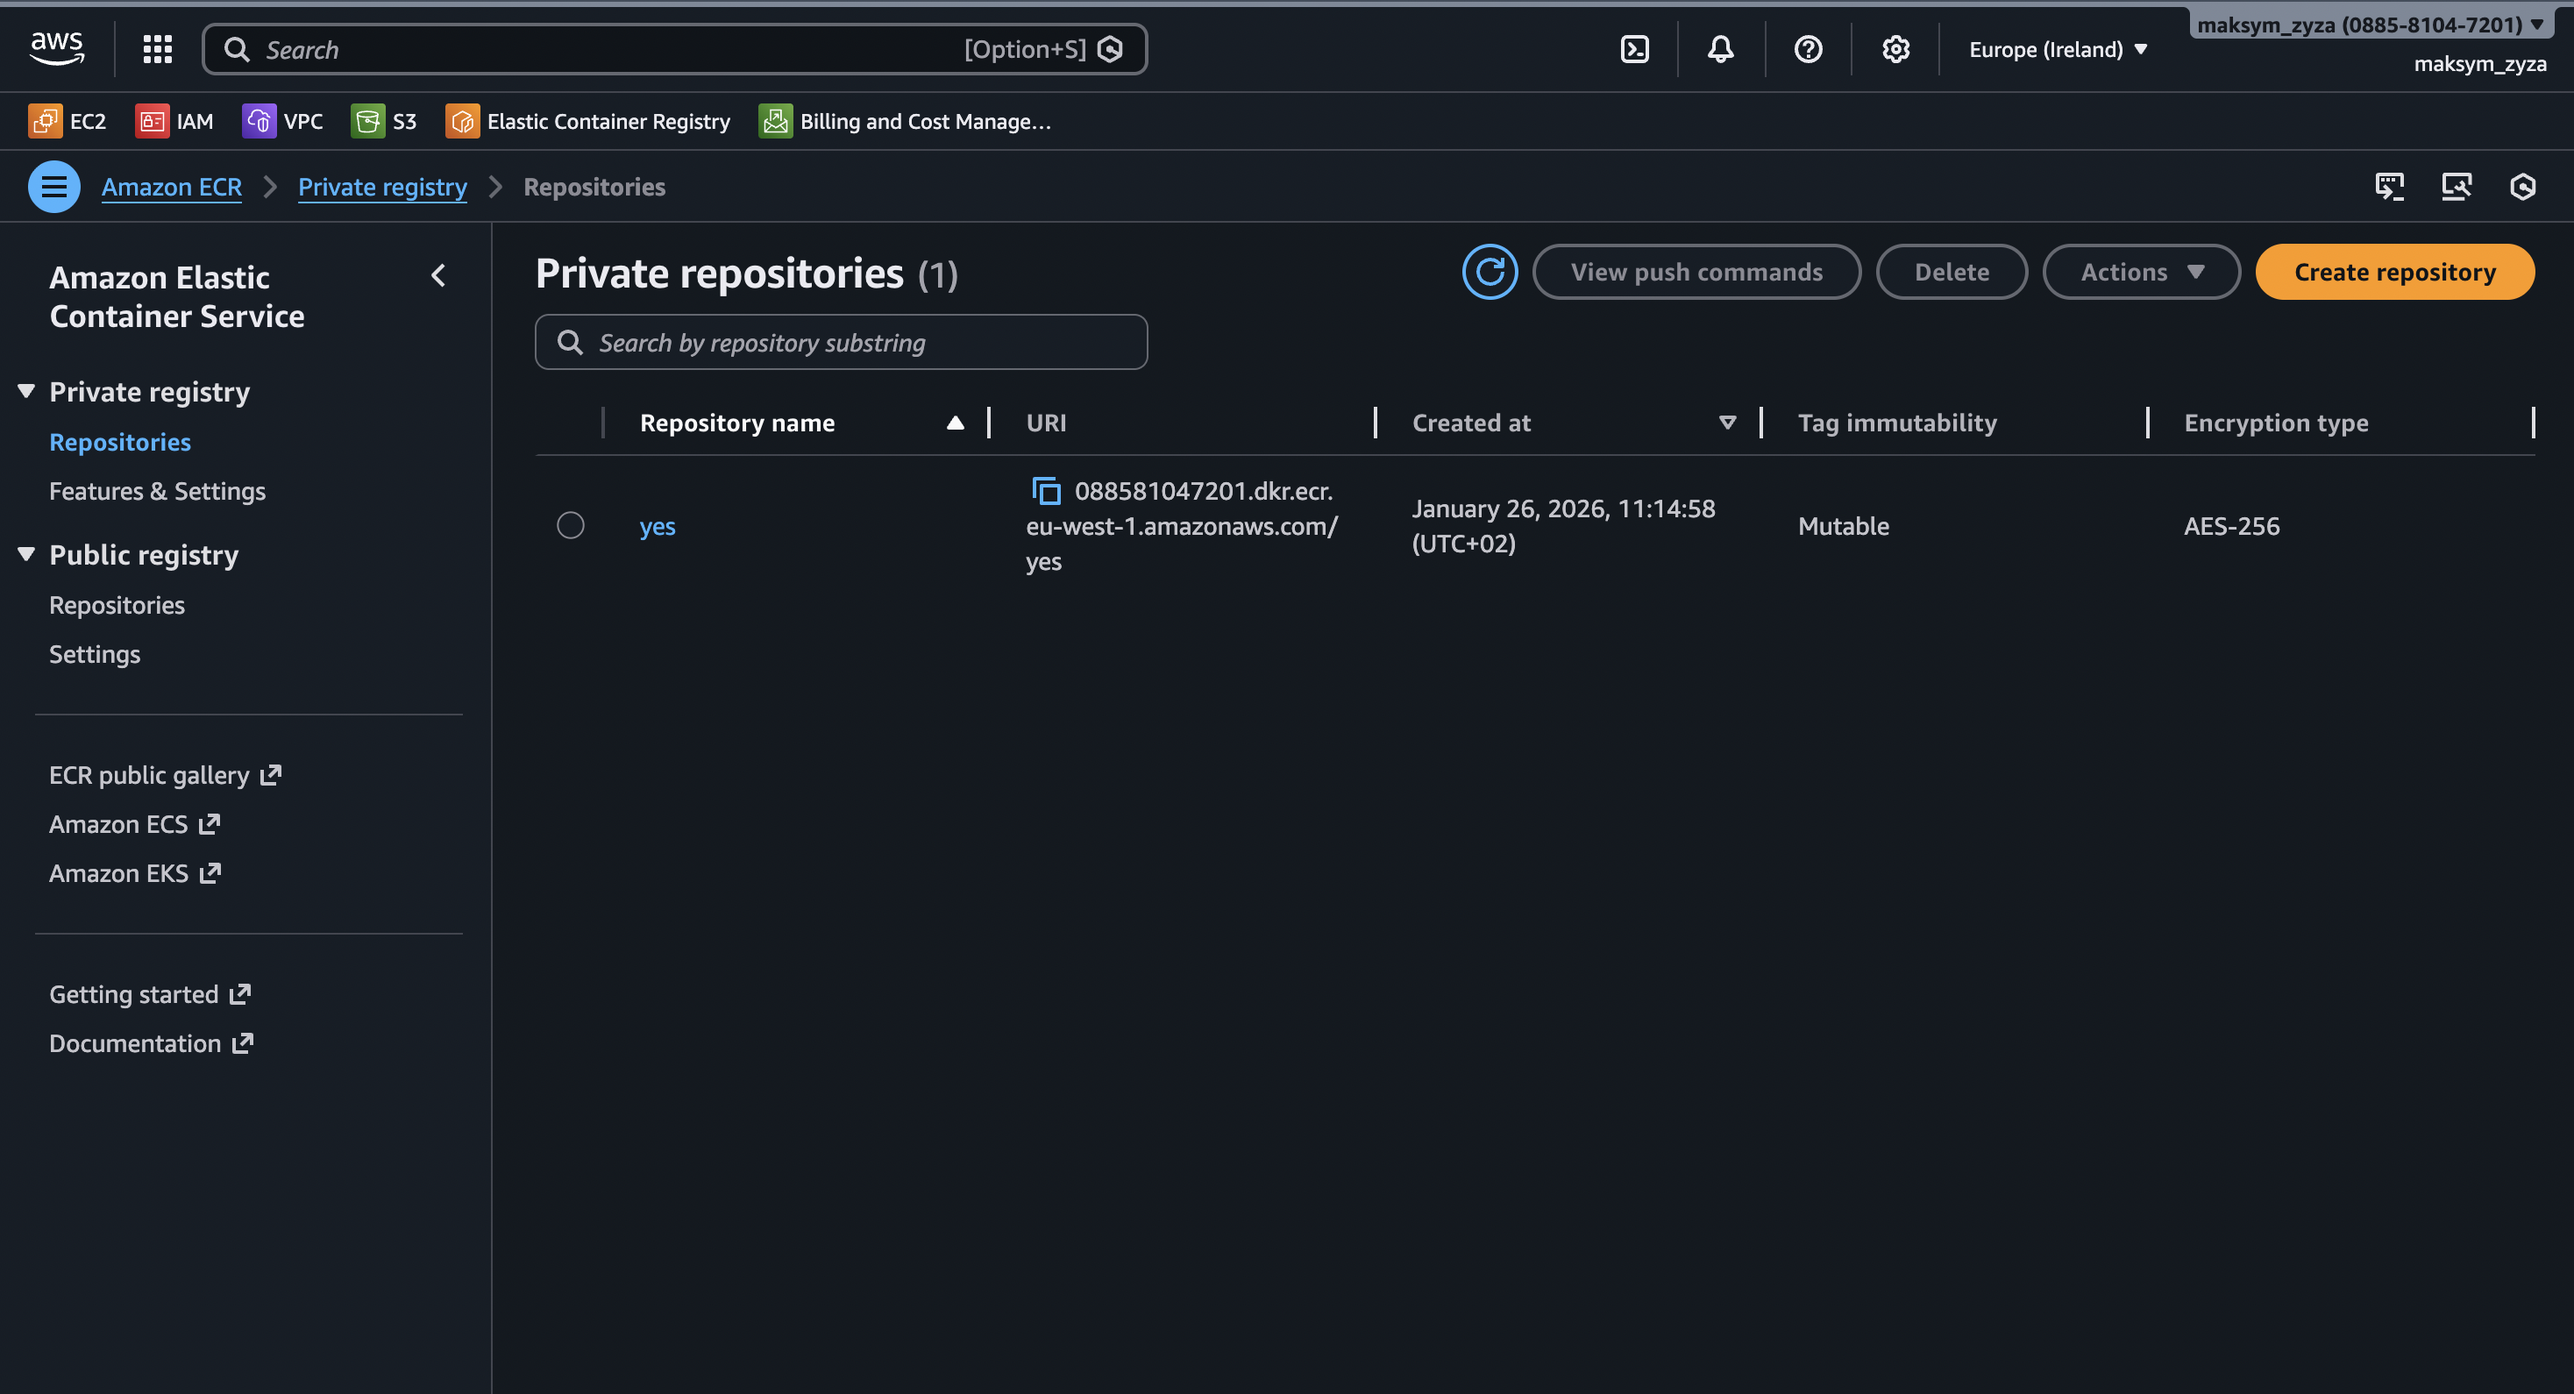
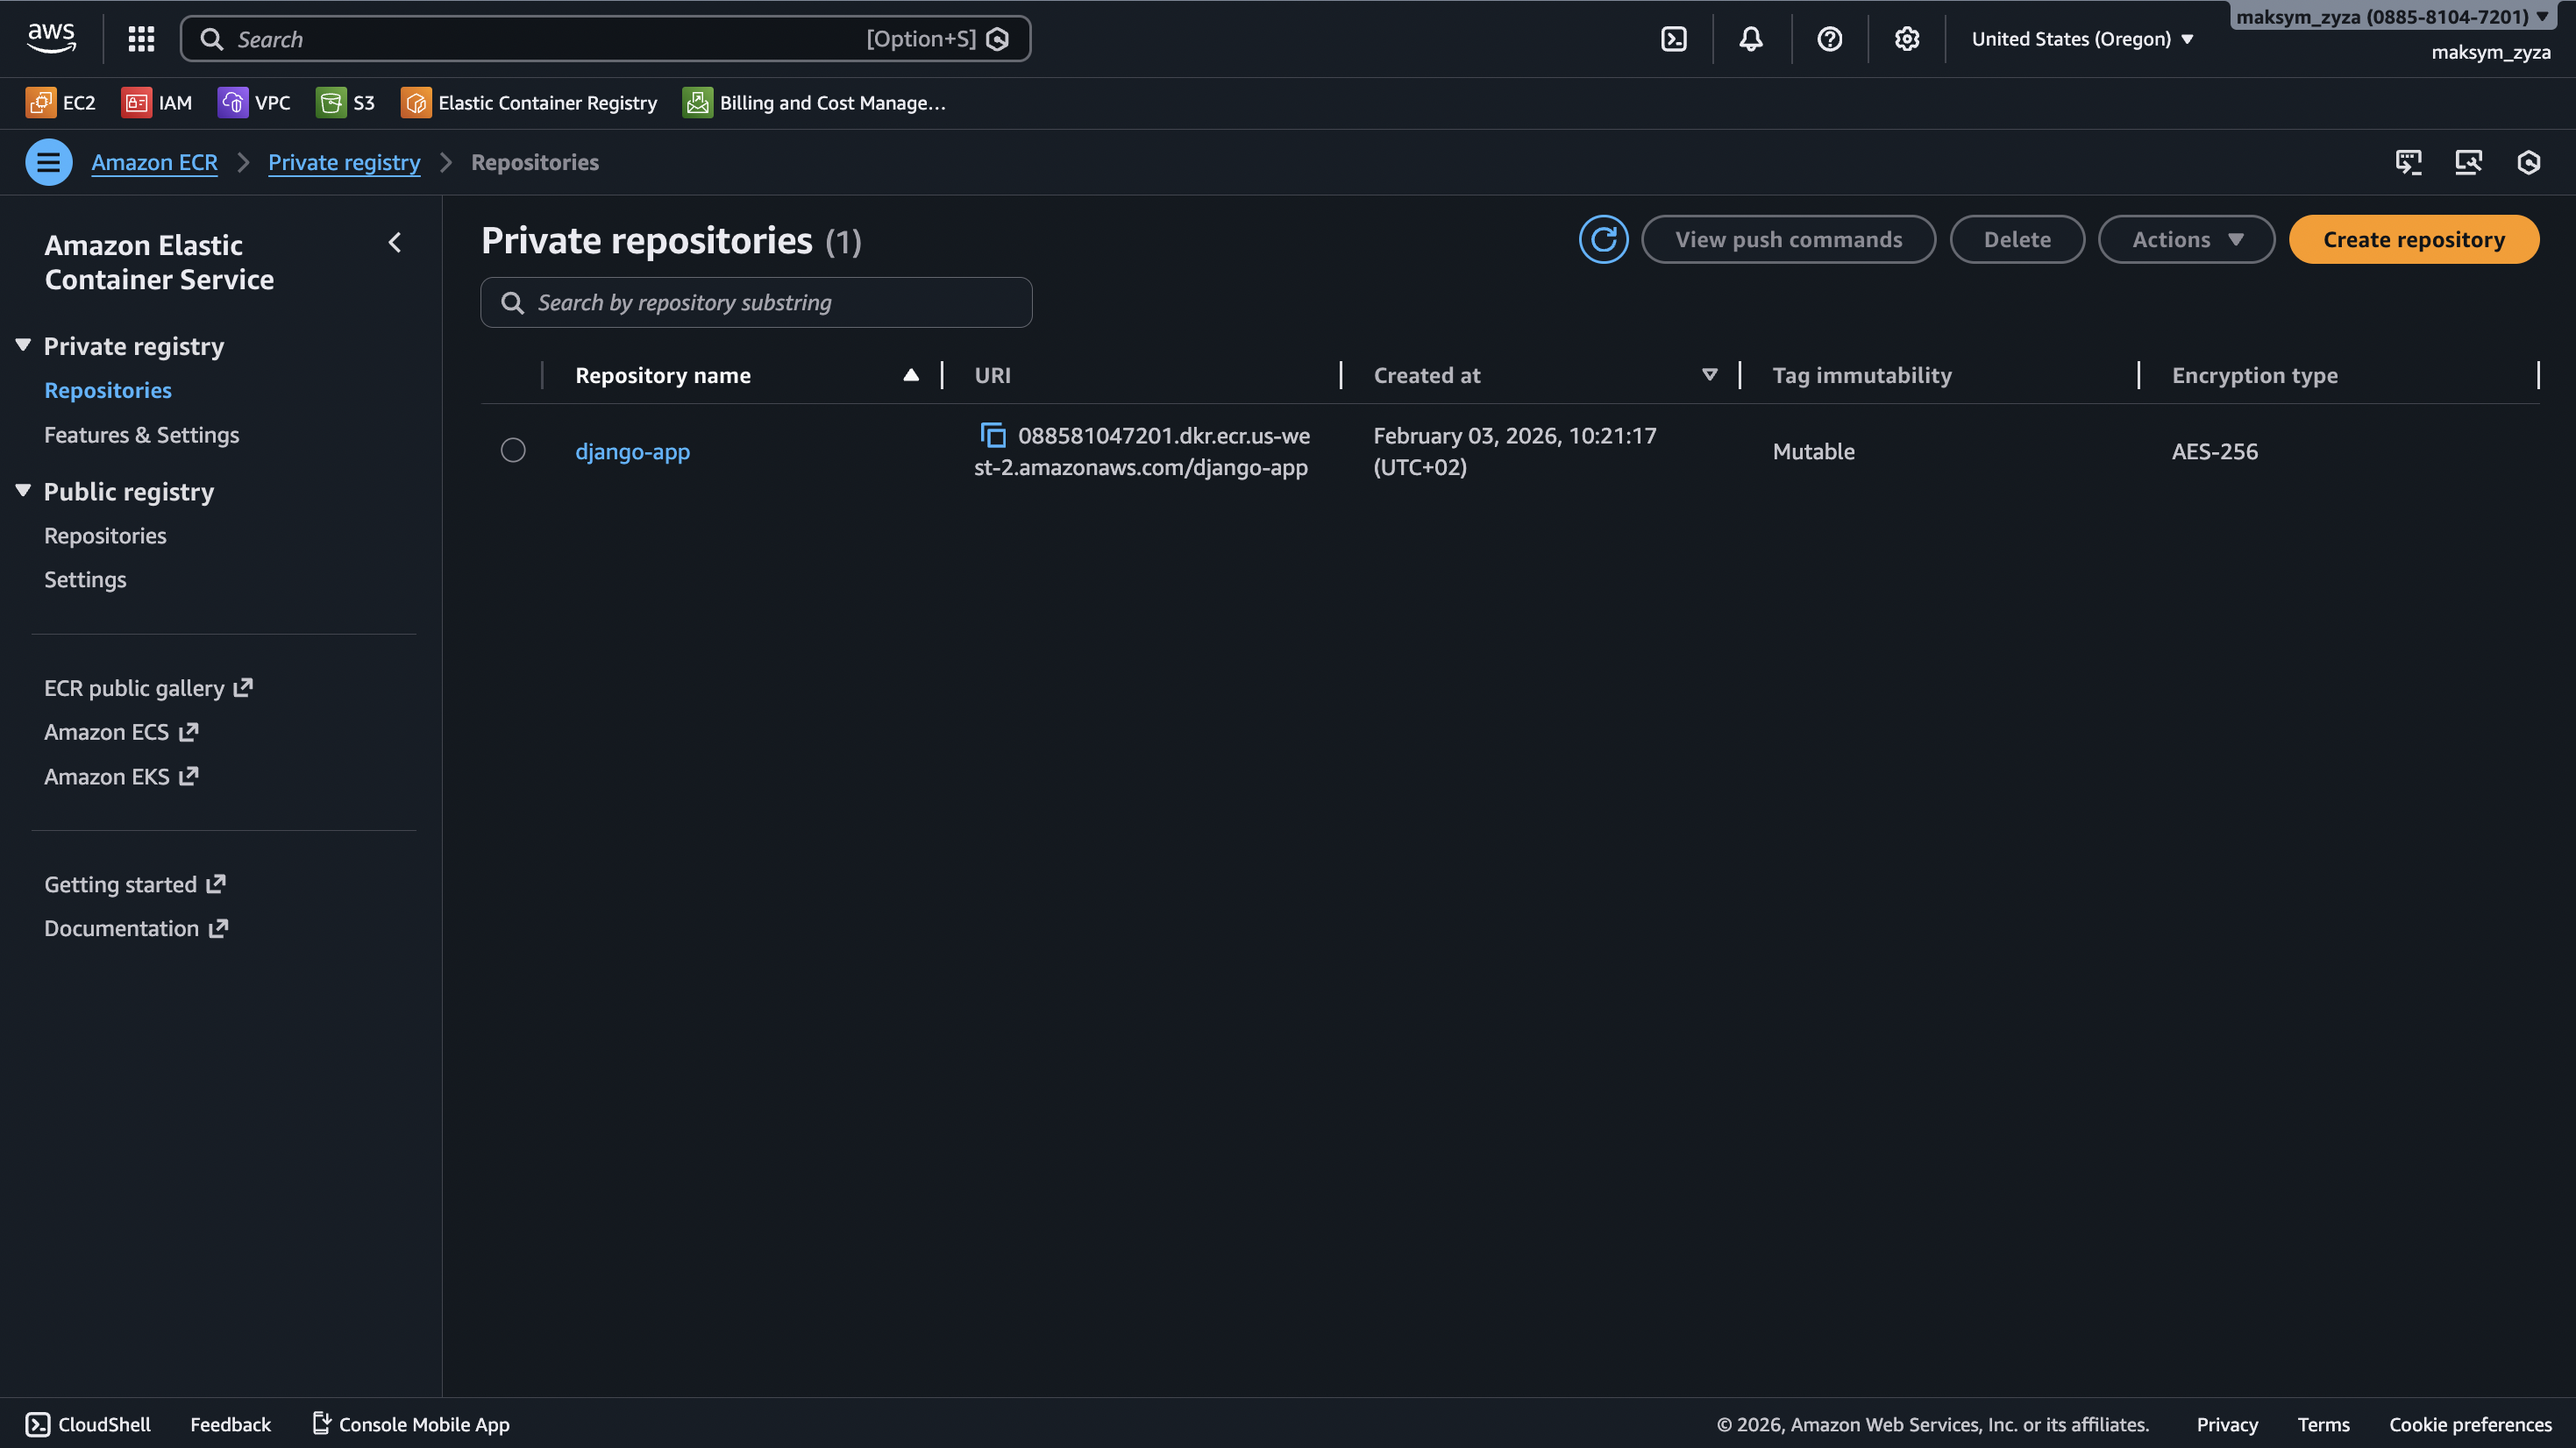
docs: update commands description

diff --git a/lesson-7/README.md b/lesson-7/README.md
@@ -118,9 +118,8 @@ lesson-7/
 Налаштуйте `kubectl` для взаємодії з вашим новим EKS кластером.
 
 ```bash
-aws eks update-kubeconfig --region <your-aws-region> --name <your-cluster-name>
+aws eks update-kubeconfig --region us-west-2 --name eks-cluster-demo
 ```
-*Замініть `<your-aws-region>` та `<your-cluster-name>` на ваші актуальні значення, які ви вказали у Terraform-змінних.*
 
 Перевірте підключення:
 ```bash
@@ -132,24 +131,22 @@ kubectl get nodes
 
 a. **Автентифікація Docker у ECR:**
 ```bash
-aws ecr get-login-password --region <your-aws-region> | docker login --username AWS --password-stdin <aws-account-id>.dkr.ecr.<your-aws-region>.amazonaws.com
+aws ecr get-login-password --region us-west-2 | docker login --username AWS --password-stdin 088581047201.dkr.ecr.us-west-2.amazonaws.com
 ```
-*Замініть `<your-aws-region>` та `<aws-account-id>`.*
 
 b. **Build Docker-образу:**
 ```bash
-docker build -t <your-ecr-repo-name> .
+docker build -t django-app .
 ```
-*Замініть `<your-ecr-repo-name>` на ім'я, вказане у Terraform.*
 
 c. **Тегування образу:**
 ```bash
-docker tag <your-ecr-repo-name>:latest <aws-account-id>.dkr.ecr.<your-aws-region>.amazonaws.com/<your-ecr-repo-name>:latest
+docker tag django-app:latest 088581047201.dkr.ecr.us-west-2.amazonaws.com/django-app:latest
 ```
 
 d. **Push образу в ECR:**
 ```bash
-docker push <aws-account-id>.dkr.ecr.<your-aws-region>.amazonaws.com/<your-ecr-repo-name>:latest
+docker push 088581047201.dkr.ecr.us-west-2.amazonaws.com/django-app:latest
 ```
 
 #### 3. Розгортання застосунку за допомогою Helm
@@ -158,7 +155,7 @@ a. **Оновіть `values.yaml`:**
 
 ```yaml
 image:
-  repository: <aws-account-id>.dkr.ecr.<your-aws-region>.amazonaws.com/<your-ecr-repo-name>
+  repository: 088581047201.dkr.ecr.us-west-2.amazonaws.com/django-app
   tag: latest
 ```
 
@@ -202,3 +199,6 @@ terraform destroy
 
 ###### AWS ECR
 ![alt text](assets/aws_ecr.png)
+
+###### AWS EKS
+![alt text](assets/aws_eks.png)
